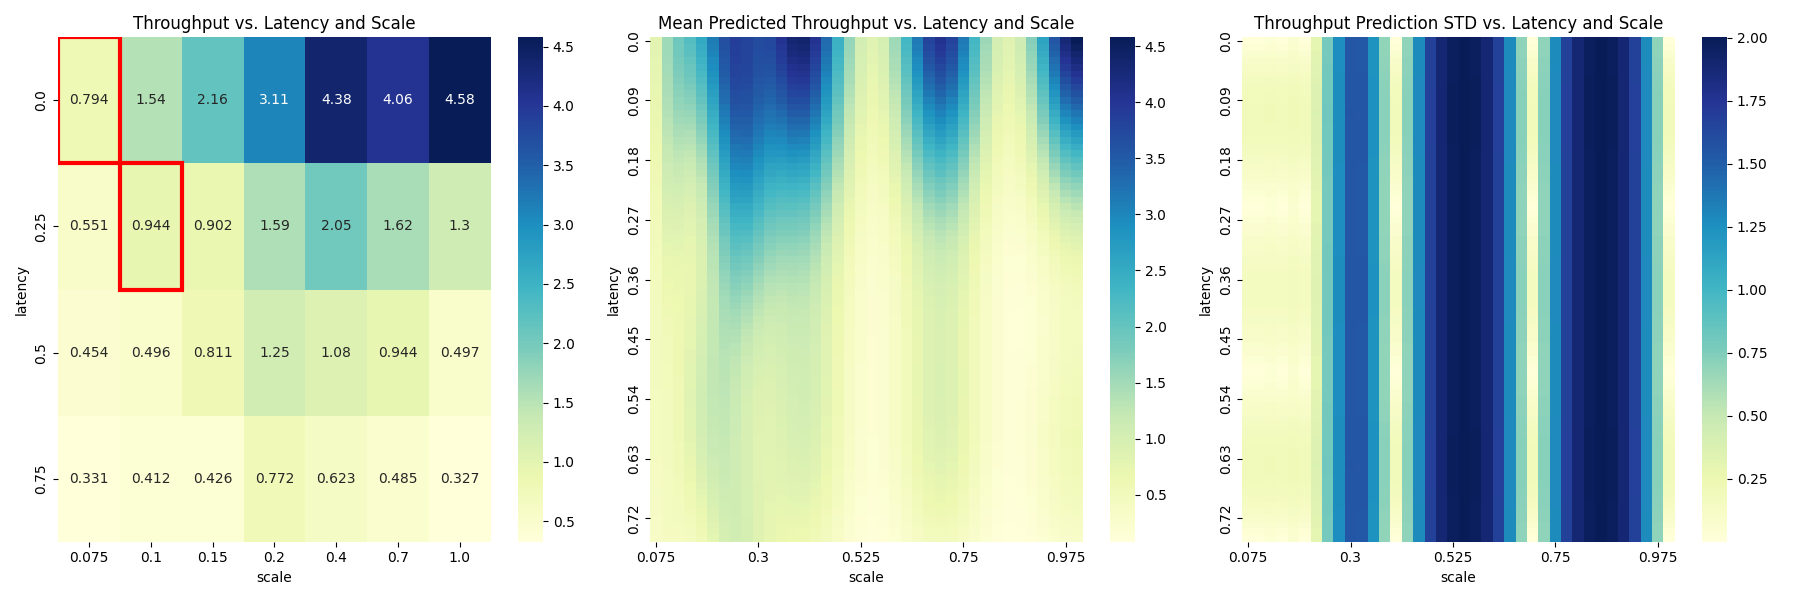
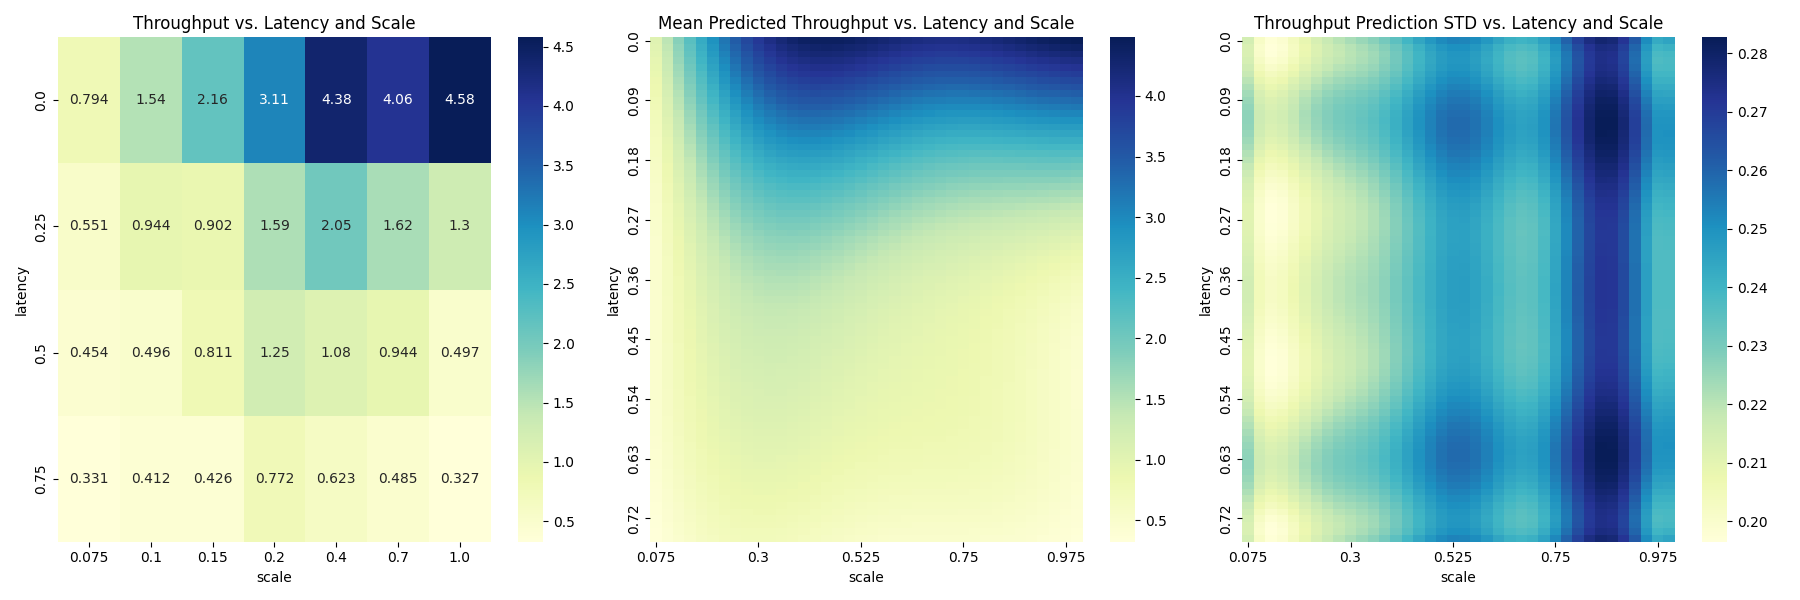
gpytorch modeling working

diff --git a/gpr_pytorch.py b/gpr_pytorch.py
@@ -5,6 +5,7 @@ import pandas as pd
 from sklearn.model_selection import train_test_split
 from matplotlib import pyplot as plt
 from mpl_toolkits.mplot3d import Axes3D
+import seaborn as sns
 
 # Assuming 'metric_df' is your DataFrame with columns 'latency', 'scale', and 'performance'
 # You might need to preprocess the data based on your specific requirements.
@@ -17,11 +18,11 @@ X = metric_df[['latency', 'scale']]
 y = metric_df['throughput']
 
 # Convert to torch tensors
-X_train_tensor = torch.tensor(X.values, dtype=torch.float32)
-y_train_tensor = torch.tensor(y.values, dtype=torch.float32)
+X_tensor = torch.tensor(X.values, dtype=torch.float32)
+y_tensor = torch.tensor(y.values, dtype=torch.float32)
 
 # Splitting the data into training and testing sets
-X_train, X_test, y_train, y_test = train_test_split(X_train_tensor, y_train_tensor, test_size=0.2, random_state=42)
+X_train, X_test, y_train, y_test = train_test_split(X_tensor, y_tensor, test_size=0.2, random_state=42)
 
 # Define the GP model
 class GaussianProcessModel(gpytorch.models.ExactGP):
@@ -37,9 +38,9 @@ class GaussianProcessModel(gpytorch.models.ExactGP):
 
 # Initialize likelihood and model
 likelihood = gpytorch.likelihoods.GaussianLikelihood()
-model = GaussianProcessModel(X_train, y_train, likelihood)
+model = GaussianProcessModel(X_tensor, y_tensor, likelihood)
 
-# Training the model
+# Set model to training mode
 model.train()
 likelihood.train()
 
@@ -53,8 +54,8 @@ mll = gpytorch.mlls.ExactMarginalLogLikelihood(likelihood, model)
 num_epochs = 100
 for epoch in range(num_epochs):
     optimizer.zero_grad()
-    output = model(X_train)
-    loss = -mll(output, y_train)
+    output = model(X_tensor)
+    loss = -mll(output, y_tensor)
     loss.backward()
     optimizer.step()
 
@@ -63,35 +64,54 @@ model.eval()
 likelihood.eval()
 
 # Make predictions on the test set
-with torch.no_grad():
-    y_pred = likelihood(model(X_test))
 
-# Extract mean and standard deviation
-y_mean = y_pred.mean.numpy()
-y_std = np.sqrt(y_pred.variance.numpy())
+# Predict on a denser range of test inputs
+latency_range = np.arange(0.0, 0.76, 0.01)
+scale_range = np.arange(0.075, 1.025, 0.025)
+
+test_inputs = torch.tensor(np.array(np.meshgrid(latency_range, scale_range)).T.reshape(-1, 2), dtype=torch.float32)
+
+model.eval()
+likelihood.eval()
+
+# Get predictions and calculate mean and std
+with torch.no_grad():
+    predictions = likelihood(model(test_inputs))
+    y_mean = predictions.mean
+    y_std = predictions.stddev
+
+# Create a DataFrame for the predicted values
+pred_df = pd.DataFrame({
+    'latency': test_inputs[:, 0].numpy(),
+    'scale': test_inputs[:, 1].numpy(),
+    'mean': y_mean.numpy(),
+    'std': y_std.numpy()
+})
+
 
 # Visualization
-fig = plt.figure(figsize=(18, 6))
-ax = fig.add_subplot(131, projection='3d')
-ax.scatter(X_test[:, 0], X_test[:, 1], y_test, color='r', marker='o', label='Actual Throughput')
-ax.set_xlabel('Latency')
-ax.set_ylabel('Scale')
-ax.set_zlabel('Throughput')
-ax.set_title('Actual Throughput vs. Latency and Scale')
+fig, axes = plt.subplots(1, 3, figsize=(18, 6))
+# Plot original data
+# Plot heatmap for average movement time
+heatmap_TP = metric_df.pivot(
+        index='latency', columns='scale', values='throughput')
+#print(heatmap_TP)
+ax = sns.heatmap(heatmap_TP, ax=axes[0], cmap="YlGnBu", annot=True, fmt='.3g')
+axes[0].set_title('Throughput vs. Latency and Scale')
+# annotate_extrema(heatmap_MT.values, ax, extrema_type='min')
+indices = [(0, 0), (1, 1)]
+#annotate(ax, indices)
 
-ax = fig.add_subplot(132, projection='3d')
-ax.scatter(X_test[:, 0], X_test[:, 1], y_mean, color='b', marker='o', label='Predicted Throughput (Mean)')
-ax.set_xlabel('Latency')
-ax.set_ylabel('Scale')
-ax.set_zlabel('Throughput')
-ax.set_title('Predicted Throughput (Mean) vs. Latency and Scale')
+heatmap_pred_TP = pred_df.pivot(
+    index='latency', columns='scale', values='mean')
+ax = sns.heatmap(heatmap_pred_TP, ax=axes[1], cmap="YlGnBu", xticklabels=9, yticklabels=9)
+axes[1].set_title('Mean Predicted Throughput vs. Latency and Scale')
 
-ax = fig.add_subplot(133, projection='3d')
-ax.scatter(X_test[:, 0], X_test[:, 1], y_std, color='g', marker='o', label='Predicted Throughput (Std)')
-ax.set_xlabel('Latency')
-ax.set_ylabel('Scale')
-ax.set_zlabel('Throughput')
-ax.set_title('Predicted Throughput (Std) vs. Latency and Scale')
+heatmap_pred_std = pred_df.pivot(
+    index='latency', columns='scale', values='std')
+ax = sns.heatmap(heatmap_pred_std, ax=axes[2], cmap="YlGnBu", xticklabels=9, yticklabels=9)
+axes[2].set_title('Throughput Prediction STD vs. Latency and Scale')
 
 plt.tight_layout()
+plt.savefig('data_files/user_jason/gpr_results.png')
 plt.show()

diff --git a/model_gpr.py b/model_gpr.py
@@ -52,6 +52,8 @@ test_inputs = np.round(test_inputs, 3)
 # Predict on the test inputs
 y_pred, sigma = gp_model.predict(test_inputs, return_std=True)
 
+print(np.shape(y_pred))
+
 # Reshape the predictions and uncertainties to match the grid shape
 y_pred = y_pred.reshape(latency_grid.shape)
 sigma = sigma.reshape(latency_grid.shape)
